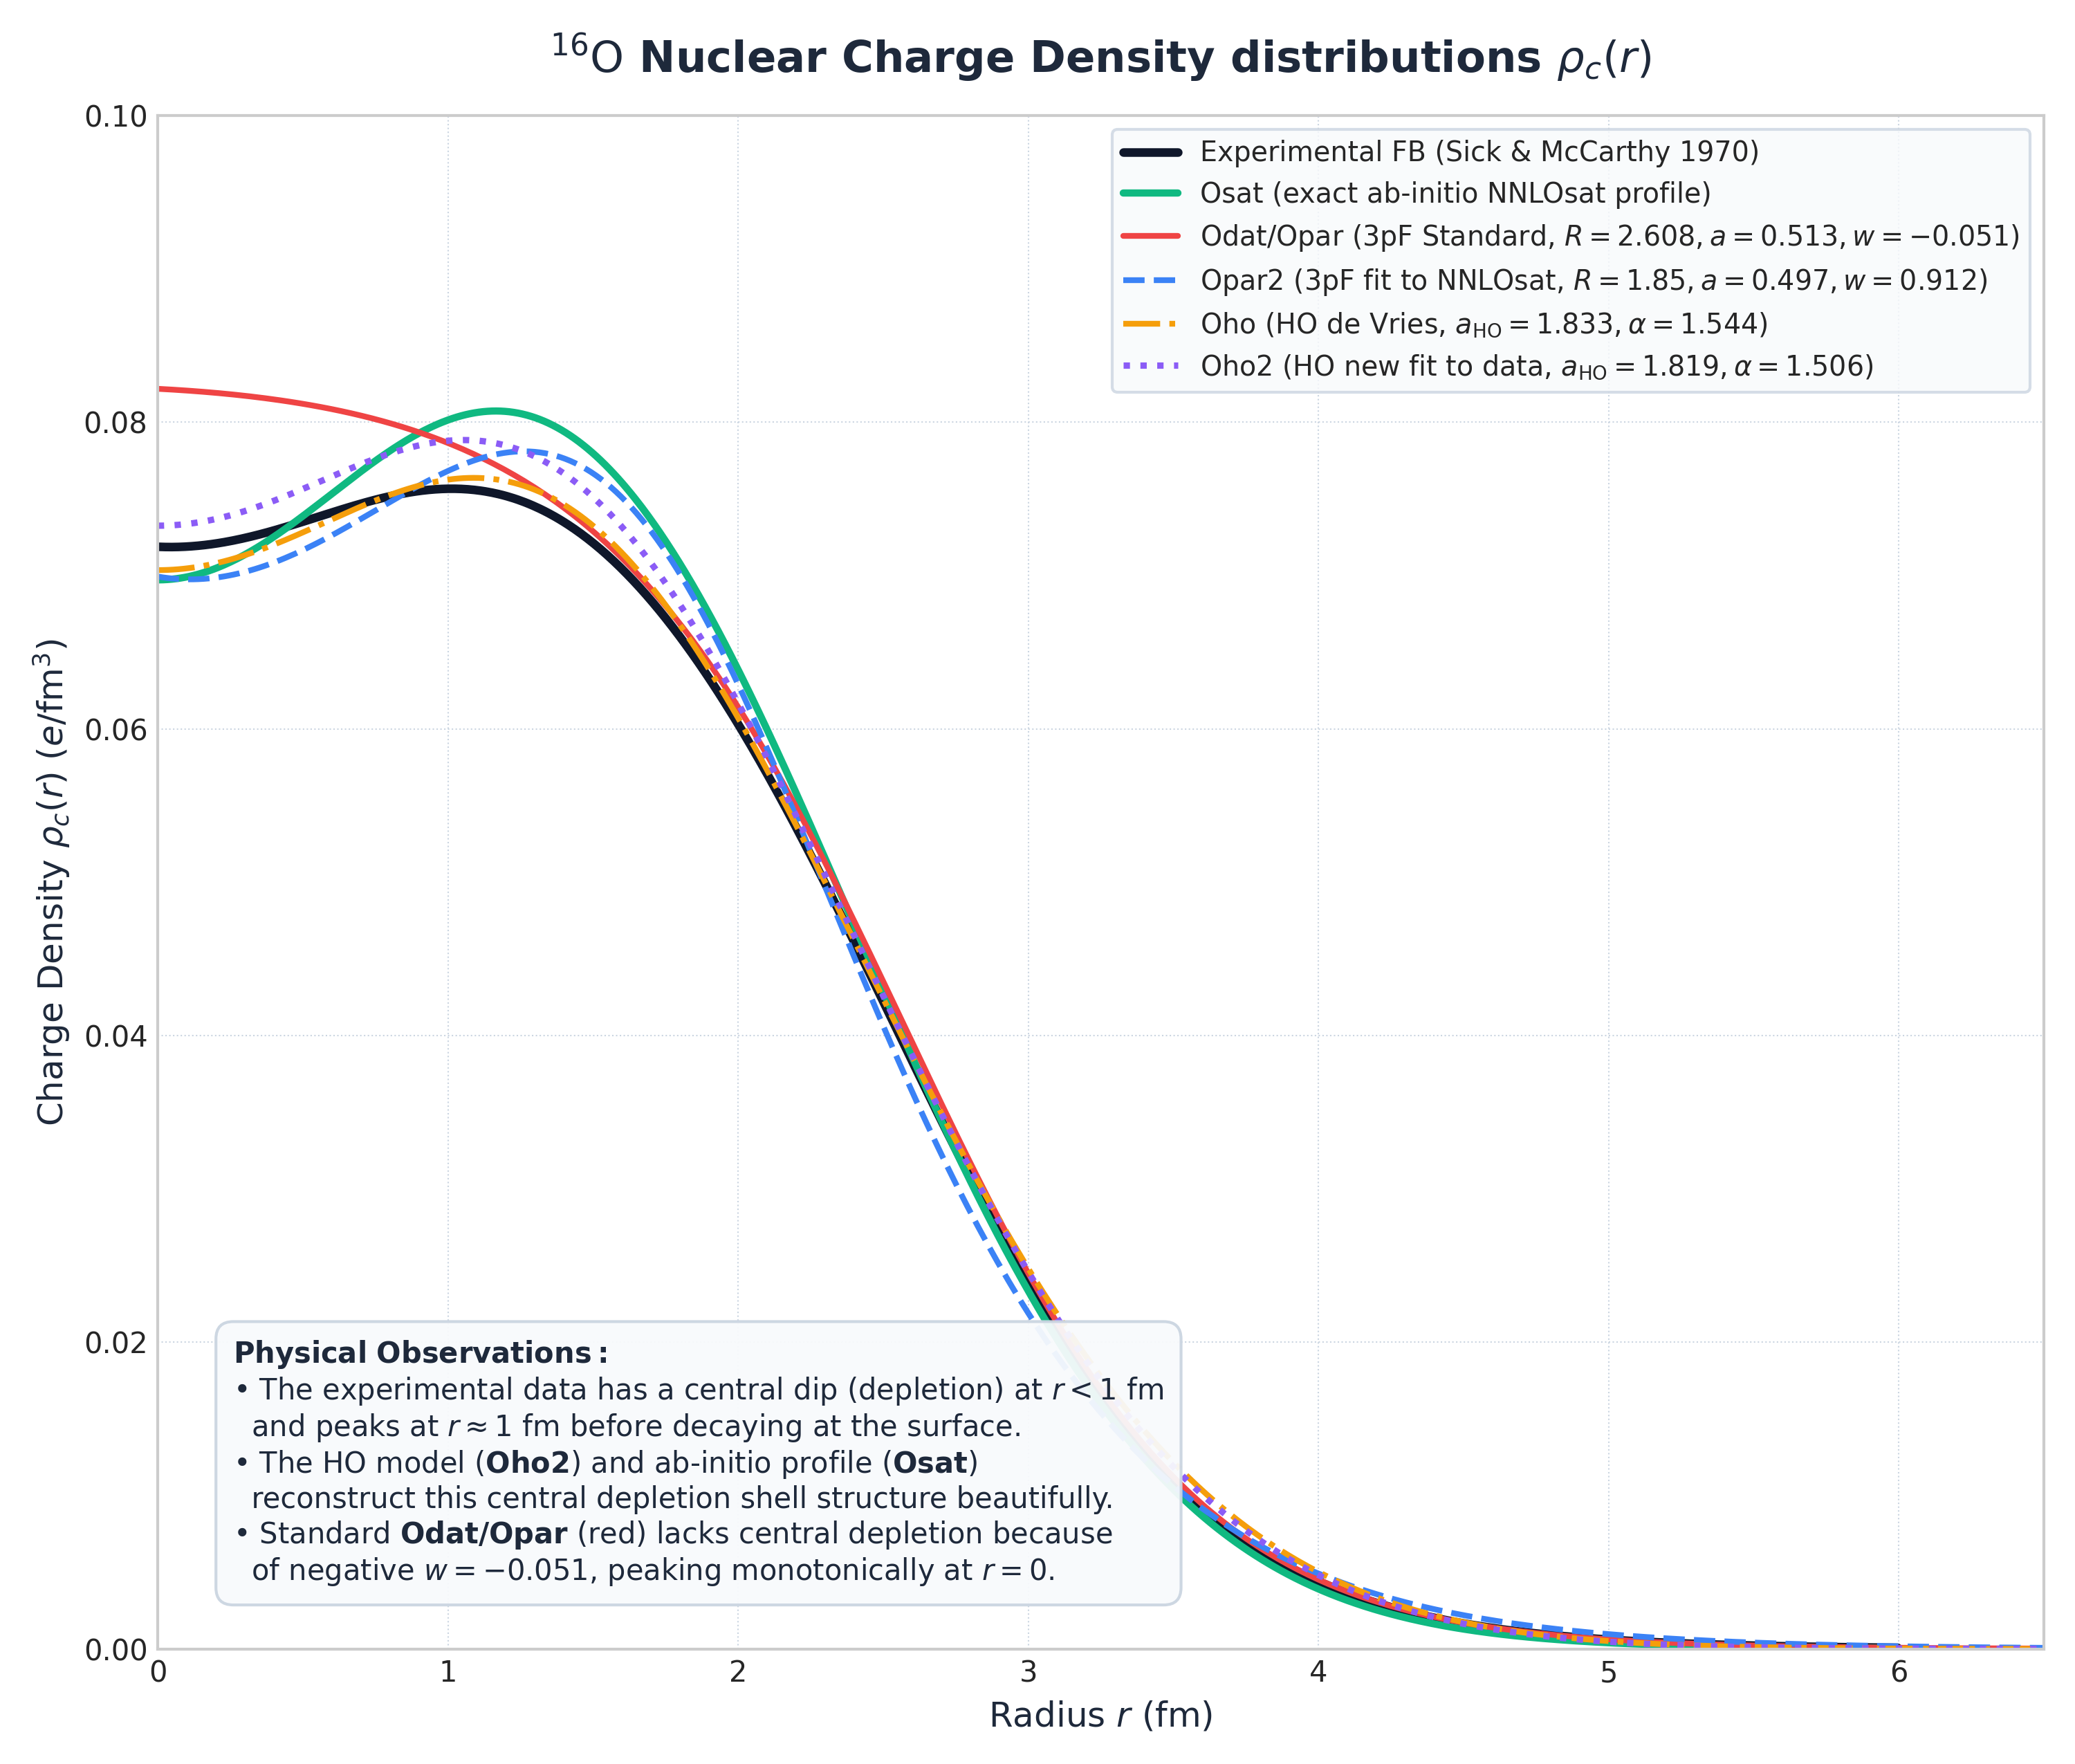
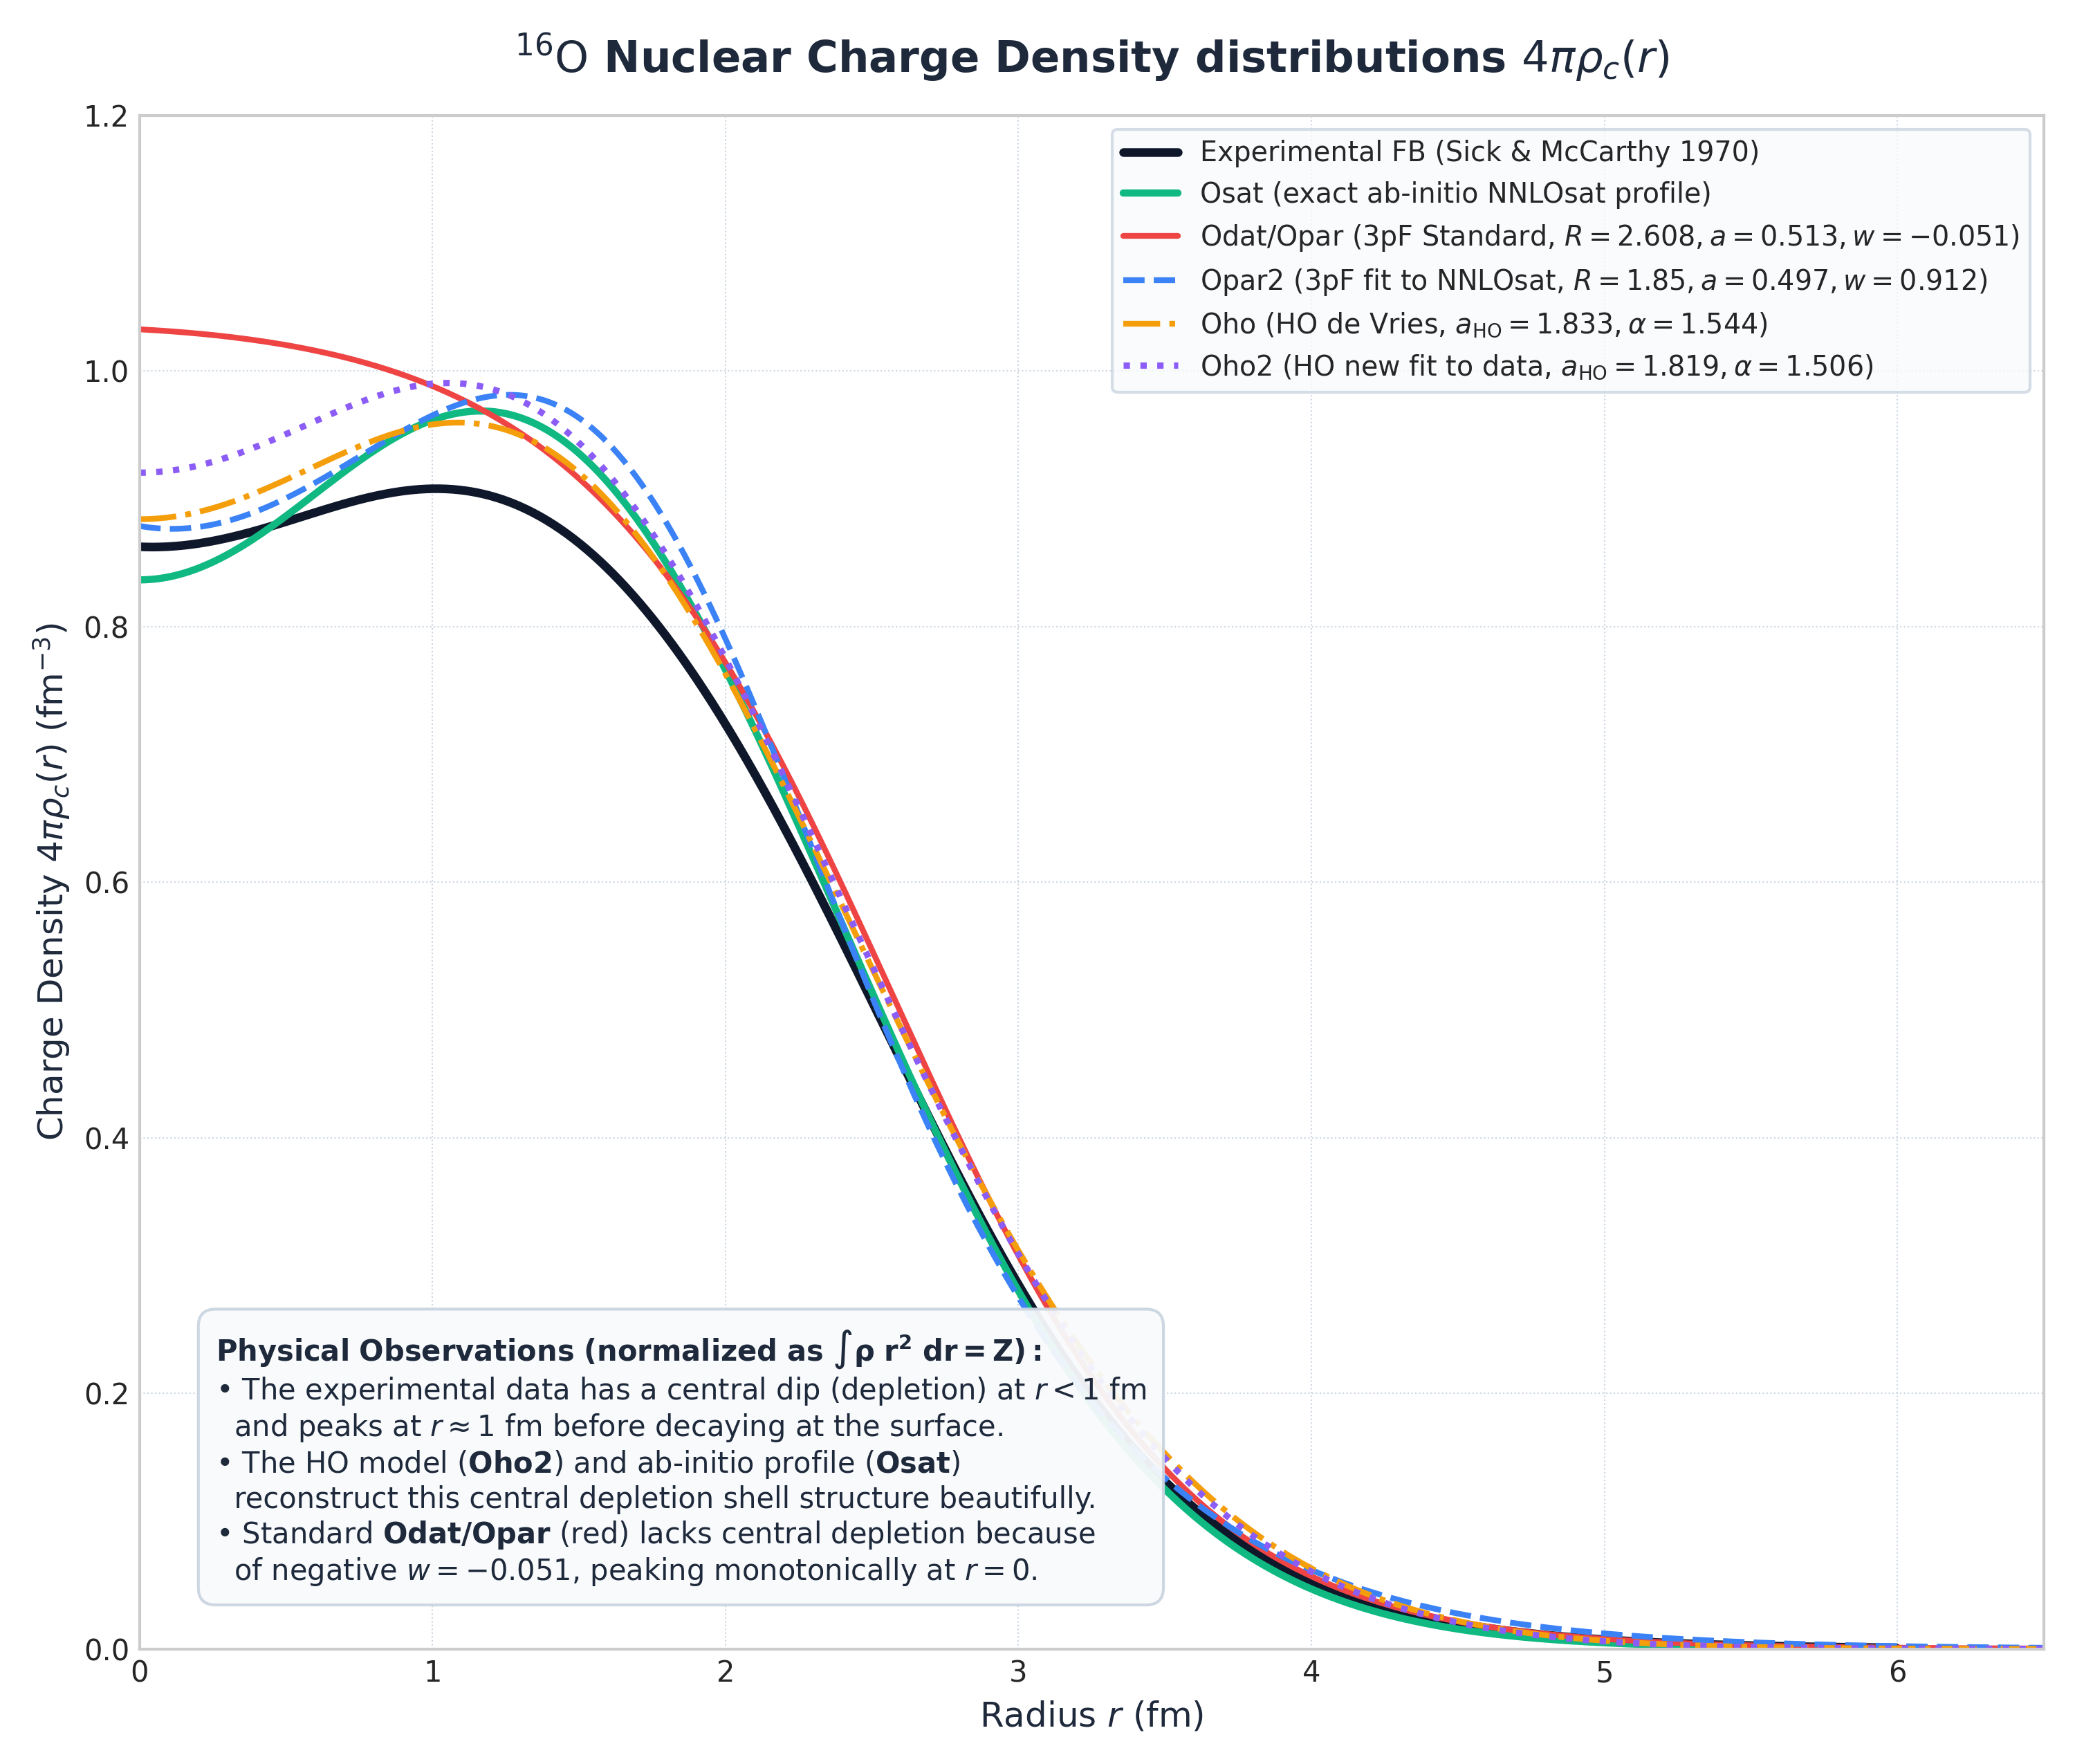
Scale charge density plots by 4pi to match Figure 2 in paper

diff --git a/plot_densities_final.py b/plot_densities_final.py
@@ -35,27 +35,27 @@ def main():
     extracted_dir = r"C:\Users\Administrator\.gemini\antigravity\scratch\extracted"
     
     # ----------------------------------------------------
-    # Load and Correct Extracted Curves (Scale by 0.10 / 0.12 = 5/6)
+    # Load and Correct Extracted Curves (Scale by 10.0 to match 4pi * rho_c)
     # ----------------------------------------------------
-    correction_factor = 5.0 / 6.0
+    correction_factor = 10.0
     
     # Curve 1 is the Sick & McCarthy experimental data for Oxygen-16
     data_o16_exp = np.loadtxt(os.path.join(extracted_dir, "odensity_curve_1.txt"))
     r_exp_o16 = data_o16_exp[:, 0]
-    # Apply the Y-scale correction factor to get the correct physical density values
+    # Multiply by 10 to restore the exact 4pi * rho_c values plotted in the paper
     val_exp_o16 = data_o16_exp[:, 1] * correction_factor
     
     # Curve 4 is the exact Osat (NNLOsat) profile from the paper
     data_osat = np.loadtxt(os.path.join(extracted_dir, "odensity_curve_4.txt"))
     r_osat = data_osat[:, 0]
-    # Apply the Y-scale correction factor
+    # Multiply by 10
     val_osat = data_osat[:, 1] * correction_factor
 
     # ----------------------------------------------------
-    # Compute Volume Integrals of Corrected Curves
+    # Compute Volume Integrals of Curves (\int \rho * r^2 dr = Z)
     # ----------------------------------------------------
-    int_exp_o16 = 4.0 * np.pi * trapezoid_integration(r_exp_o16**2 * val_exp_o16, r_exp_o16)
-    int_osat = 4.0 * np.pi * trapezoid_integration(r_osat**2 * val_osat, r_osat)
+    int_exp_o16 = trapezoid_integration(r_exp_o16**2 * val_exp_o16, r_exp_o16)
+    int_osat = trapezoid_integration(r_osat**2 * val_osat, r_osat)
     
     print(f"Corrected Experimental Curve Volume Integral: Z = {int_exp_o16:.4f} (expected ~7.8 due to tail cut-off)")
     print(f"Corrected Osat Curve Volume Integral: Z = {int_osat:.4f} (expected ~7.8 due to tail cut-off)")
@@ -69,39 +69,39 @@ def main():
     rho_oho2, _ = get_normalized_density(density_ho, 8.0, 1.819, 1.506)
 
     # ----------------------------------------------------
-    # Plotting (Single-panel for Oxygen-16)
+    # Plotting (Single-panel for Oxygen-16 in units of 4pi * rho_c)
     # ----------------------------------------------------
     plt.figure(figsize=(10, 8.5))
     r_grid = np.linspace(0, 7.0, 400)
 
-    # Plot experimental data and Osat (using raw corrected curves, no manual scaling needed!)
+    # Plot experimental data and Osat (using raw corrected curves)
     plt.plot(r_exp_o16, val_exp_o16, color='#0f172a', linewidth=3.0, 
              label='Experimental FB (Sick & McCarthy 1970)')
     plt.plot(r_osat, val_osat, color='#10b981', linewidth=2.5, 
              label='Osat (exact ab-initio NNLOsat profile)')
 
-    # Plot analytical curves
-    plt.plot(r_grid, rho_opar(r_grid), color='#ef4444', linewidth=2.0, linestyle='-',
+    # Plot analytical curves (multiplied by 4pi to match 4pi * rho_c)
+    plt.plot(r_grid, 4.0 * np.pi * rho_opar(r_grid), color='#ef4444', linewidth=2.0, linestyle='-',
              label=r'Odat/Opar (3pF Standard, $R=2.608, a=0.513, w=-0.051$)')
-    plt.plot(r_grid, rho_opar2(r_grid), color='#3b82f6', linewidth=2.0, linestyle='--',
+    plt.plot(r_grid, 4.0 * np.pi * rho_opar2(r_grid), color='#3b82f6', linewidth=2.0, linestyle='--',
              label=r'Opar2 (3pF fit to NNLOsat, $R=1.85, a=0.497, w=0.912$)')
-    plt.plot(r_grid, rho_oho(r_grid), color='#f59e0b', linewidth=2.0, linestyle='-.',
+    plt.plot(r_grid, 4.0 * np.pi * rho_oho(r_grid), color='#f59e0b', linewidth=2.0, linestyle='-.',
              label=r'Oho (HO de Vries, $a_{\mathrm{HO}}=1.833, \alpha=1.544$)')
-    plt.plot(r_grid, rho_oho2(r_grid), color='#8b5cf6', linewidth=2.2, linestyle=':',
+    plt.plot(r_grid, 4.0 * np.pi * rho_oho2(r_grid), color='#8b5cf6', linewidth=2.2, linestyle=':',
              label=r'Oho2 (HO new fit to data, $a_{\mathrm{HO}}=1.819, \alpha=1.506$)')
 
     # Formatting and styling
-    plt.title(r'$^{16}\mathrm{O}$ Nuclear Charge Density distributions $\rho_c(r)$', fontsize=15, fontweight='bold', color=COLOR_TEXT, pad=15)
+    plt.title(r'$^{16}\mathrm{O}$ Nuclear Charge Density distributions $4\pi \rho_c(r)$', fontsize=15, fontweight='bold', color=COLOR_TEXT, pad=15)
     plt.xlabel('Radius $r$ (fm)', fontsize=12, color=COLOR_TEXT)
-    plt.ylabel(r'Charge Density $\rho_c(r)$ ($e/\mathrm{fm}^3$)', fontsize=12, color=COLOR_TEXT)
+    plt.ylabel(r'Charge Density $4\pi \rho_c(r)$ ($\mathrm{fm}^{-3}$)', fontsize=12, color=COLOR_TEXT)
     plt.xlim(0, 6.5)
-    plt.ylim(0, 0.10) # Matches the 0.10 maximum limit of the paper's axis
+    plt.ylim(0, 1.20) # Matches the 1.2 maximum limit of the paper's axis
     plt.grid(True, linestyle=':', linewidth=0.5, color=COLOR_GRID)
     plt.legend(loc='upper right', fontsize=9.5, frameon=True, edgecolor='#cbd5e1', facecolor='#f8fafc')
 
     # Add explanatory annotation box
     annotation_text = '\n'.join((
-        r'$\mathbf{Physical\ Observations:}$',
+        r'$\mathbf{Physical\ Observations\ (normalized\ as\ \int \rho\ r^2\ dr = Z):}$',
         r'• The experimental data has a central dip (depletion) at $r < 1\ \mathrm{fm}$',
         r'  and peaks at $r \approx 1\ \mathrm{fm}$ before decaying at the surface.',
         r'• The HO model ($\mathbf{Oho2}$) and ab-initio profile ($\mathbf{Osat}$)',